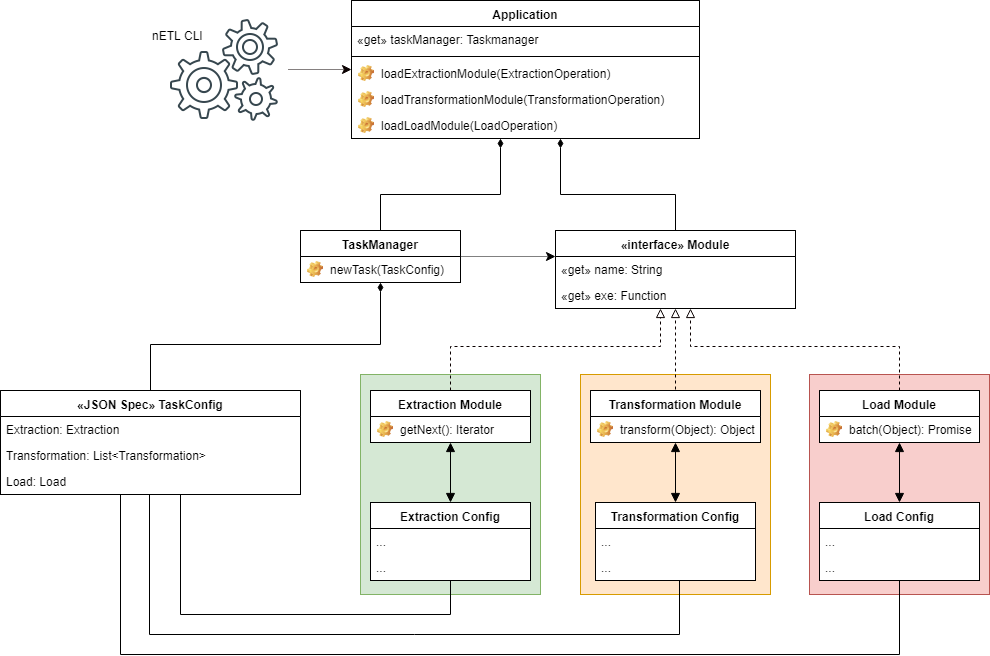
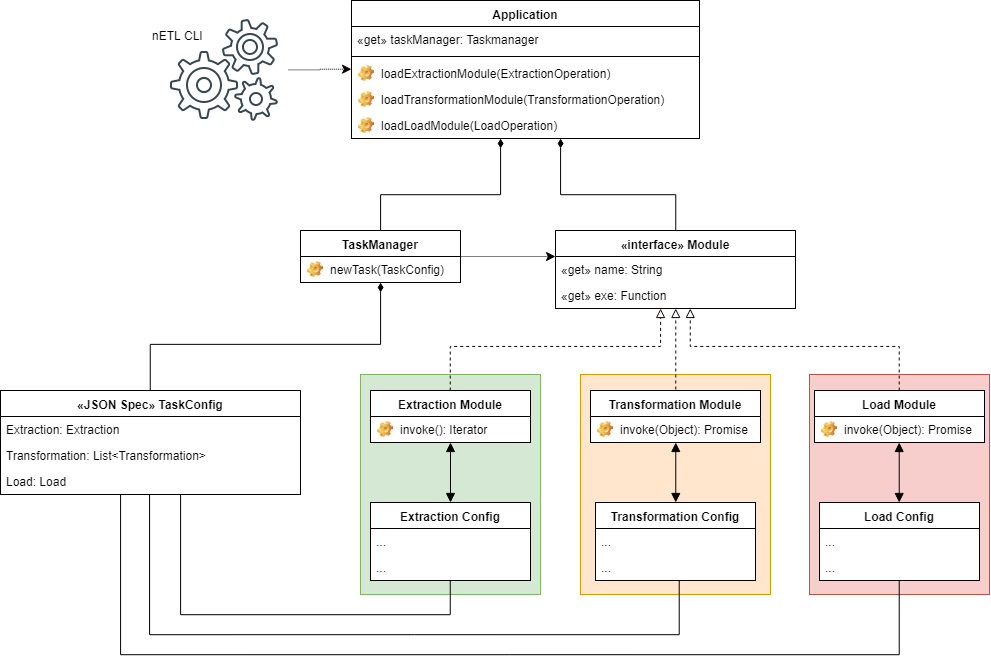
etl chapter first pass done

diff --git a/4-etl/2-implementation.tex b/4-etl/2-implementation.tex
@@ -7,7 +7,7 @@ The ETL engine and components (extractions, transformations, loads) are implemen
     \item The JavaScript implementation of object-orientation is appealing (to some developers at least \cite{jsBook})
 \end{itemize}
 
-All components adhere to the modular contract as shown in \ref{fig-module-contract} such that invoking a module returns a \textit{Promise} \cite{jsPromises} that resolves an \textit{invoke} function. This function accepts a single parameter and returns a \textit{Promise} that resolves the result of the module (which differs depending on whether a module performs extraction, transformation or loading operations). JavaScript \textit{Promise} objects are state-representation of asynchronous operations in terms of success and failure of these operations. Since logic implemented in a module may be synchronous, all logic is wrapped within a \mintinline{text}{setImmediate} function to ensure asynchronous execution of all modules (except for where generators are used, since (\textit{ECMAScript 2017\textsuperscript{®}}) does not support asynchronous generator functions).
+All components adhere to the modular contract as shown in \ref{fig-module-contract} such that invoking a module returns a \textit{Promise} \cite{jsPromises} that resolves an \textit{invoke} function. This function accepts a single parameter and returns a \textit{Promise} that resolves the result of the module (which differs depending on whether a module performs extraction, transformation or loading operations). JavaScript \textit{Promise} objects are state-representation of asynchronous operations in terms of success and failure of these operations. Since logic implemented in a module may not be asynchronous, all logic is wrapped within a \mintinline{text}{setImmediate} function to ensure asynchronous execution of all modules (except for where generators are used, since \textit{ECMAScript 2017\textsuperscript{®}} does not support asynchronous generator functions).
 
 \input{4-etl/figures/fig-module-contract}
 
@@ -26,19 +26,21 @@ For this reason each step in the ETL engine (extraction, transformation and load
 \subsection{Extracting data}
 Files are read in 64KB chunks from beginning to end within the context of an iterator created by a JavaScript \textit{generator} function \cite{mozillaGenerators}. Chunks are held in memory, split into lines (identified by \textit{LF}, \textit{CR} or \textit{CRLF} line ending markers to allow for cross-platform portability) and yielded a single line at a time to a controlling function executed within the context of the iterative ETL engine. This function iteratively collects \mintinline{text}{n} lines at a time into a list (\mintinline{text}{n} is a user configurable property \textit{batchSize}) and yields ``lists of lines'' - (\textit{batches}). Generators are useful in the regard because they automatically create a state handling mechanism for iterating over file contents - i.e. pointers to positions in files, references to incomplete lines as retrieved from files, etc. Disk access via generators is achieved via code taken directly from an open-source library \cite{bower16}.
 
-Lines in batches are then transformed in parallel, with transformations (specified in configuration) applied to each line in the batch in the order specified in the configuration. Once all transformation have been applied to all lines in the batch (lines can also be discarded from the batch depending on the transformations applied), \textit{taskManager} passes the transformed batch to the loading function (also specified via configuration). This function's contract is such that \textit{taskManager} is notified of when the batch has been loaded successfully to the destination, at which a further batch of lines is generated and processed. etc.
+Lines in batches are then transformed concurrently, with transformations (specified in configuration) applied to each line in the batch in the order specified in the configuration. Concurrent processing of items accessed via a loop is achieved by wrapping the loop body in an asynchronous function (\mintinline{text}{setImmediate}), allowing the loop to progress without waiting for loop body execution to complete.
+
+The loop itself is awaited, however, and once all transformation have been applied to all lines in the batch (lines can also be discarded from the batch depending on the transformations applied), the transformed batch is returned to \mintinline{text}{taskManager} and passed as an argument to the loading function specified via configuration. The function's contract is such that \textit{taskManager} is notified when the batch has been loaded successfully to the destination, at which a further batch of lines is generated and processed. This batching loop is repeated until the extraction generator returns false when the end of a data source is reached.
 
 \subsection{Transforming data}
-In terms of processing lines in a flatfile (CSV format), headers are only ever read once with the assumption that the all rows can be split into tuples (by some defined delimiter) and that order of the row-tuples corresponds with the order of the columns - if this is not the case, then the CSV is malformed. Transforming rows into objects of key:value pairs is done by creating a reference to the CSV header row that is maintained for the duration of the transformation (headers are specified explicitly in configuration as strings that are split into tuples during runtime). CSV rows are iteratively loaded into memory and split into tuples. Values from row tuples are matched with values from the header tuples by indices to form key:value pairs and create JavaScript objects with similar data representation to as defined by the JSON RFC \cite{rfc7159} (JavaScript objects can easily be serialized to JSON strings).
+In terms of processing lines in a flatfile (CSV format), headers are only ever read once with the assumption that the all rows can be split into values (by some defined delimiter) and that the order of the values corresponds with the order of the headers - if this is not the case, then the CSV is malformed. A reference to the CSV header row that is maintained for the duration of the transformation. CSV rows are iteratively loaded into memory and split into values. Row values are matched with header values to form key:value pairs and create JavaScript objects
 
-After transforming lines (strings) into lines (objects), additional transformations are applied as a means of controlling what data is loaded into Couch in terms of representation of that data, and what data is included. This is necessary so as to provide a means of identifying CouchDB documents in terms of entity type, reducing the complexity of writing MapReduce indexing functions, and also because reducing CouchDB's footprint allows for performance gains by reducing costs associated with index computation. Since index computation requires that every document in a database be processed, it is helpful (and necessary in the case of large databases) to reduce the number of documents in a database to only the ones that are required. The following transformations are used:
+After transforming row-strings into row-objects, additional transformations are applied to each object. The following transformations are applied to objects:
 
 \begin{itemize}
     \item \textbf{Selection-filter:} Entire objects can be whitelisted based on properties and allowed values for those properties.
     \item \textbf{Join-selection-filter:} A list of attributes and values can be retrieved from a \nth{3} party data source (for example from a CouchDB index), and entire objects can be whitelisted based on the retrieved attributes and allowable values for those attributes. This is similar in concept to a join, although no means of actually joining documents is provided (i.e. creating attributes based on data retrieved from a \nth{3} party data source instead of applying selection - although this would be a fairly easy feature to implement).
     \item \textbf{Projection-filter:} Unneeded attributes can be removed from objects prior to loading into database/other destinations
-    \item \textbf{Projection-append-attributes:} Additional attributes can be added to objects - i.e. a \textit{type\_} attribute can be added, along with a value as specified by configuration
+    \item \textbf{Projection-append-attributes:} Additional attributes can be added to objects - e.g. a \textit{type\_} attribute can be added, along with a value as specified by configuration
 \end{itemize}
 
 \subsection{Loading data}
-Batches of objects are loaded into a CouchDB database via the the HTTP POST \_bulk\_docs endpoint as opposed to separate network requests to CouchDB for each batch-item. Bulk inserts are configured to be atomic - i.e. either an entire insert succeeds or fails. Network requests make use of the well-known, open-source node.js library ``request'' \cite{request-lib}.
+Batches of objects are serialized to JSON and are loaded into a CouchDB database via the the HTTP POST \_bulk\_docs endpoint (as opposed to separate network requests for each item in a batch). Bulk inserts are configured to be atomic - i.e. either an entire insert succeeds or fails. Network requests make use of the well-known, open-source node.js library ``request'' \cite{request-lib}.

diff --git a/4-etl/3-setup.tex b/4-etl/3-setup.tex
@@ -1,11 +1,11 @@
 \section{Setup}
-Running nETL requires an installation of node.js V8.9.0 +, which should include an installation of npm. After cloning the netl repository from Github to a local drive, dependencies should be restored using the npm CLI tool. Additionally, the directory \mintinline{text}{C:\log} needs to be created, and then the nETL app can be started from a terminal. Once the CLI is running, typing anything into the terminal and pressing enter outputs help where further direction can be obtained.
+Running nETL requires an installation of node.js V8.9.0 +, which should include an installation of npm \cite{npm}. After cloning the nETL repository from Github to a local drive, dependencies should be restored using the npm CLI tool. Then the nETL app can be started from a terminal. Once the CLI is running, typing anything into the terminal and pressing enter outputs help where further direction can be obtained.
 
 In conjunction with setting up nETL, a CouchDB server needs to be configured. This is easy to do on Windows machines - simply download the executable from apache.org and use the installer. Once installed the server should be run in single node configuration, binded to the 127.0.0.1 address. This allows access to the CouchDB UI via the browser at the address: \url{http://127.0.0.1:5984/\_utils}, where first an admin user should be created. Working with databases via the CouchDB interface (called Fauxton) is straightforward.
 
-Database creation involves only the single step of specifying a name and (optionally) security roles. CouchDB database configuration should be specified as part of creation - though this is only available when databases creation is specified via the HTTP interface and not the Fauxton GUI (the UI doesn't allow for case-by case configration in this case, but does allow for global configuration changes - although this is not recommended \cite{fauxton}); examples of configurable settings are sharding (q) and replica (n) count. For a single node setup, q=8 and n=1, meaning that a database has 8 shards and only 1 replica of each shard. This is the configuration used in this project. There is no point in storing more than one copy of a single shard on a single server, which is why n=1. For CouchDBs operation in cluster mode the default setup is q=8 and n=3. For clusters with a large number of nodes it might make sense to increase the value of the q parameter.
+Database creation involves only the single step of specifying a name and (optionally) security roles. CouchDB database configuration should be specified as part of creation - though this is only available when databases creation is specified via the HTTP interface and not the Fauxton GUI (the GUI doesn't allow for case-by case configration, but does allow for global configuration changes - although this is not recommended \cite{fauxton}); examples of configurable settings are sharding (q) and replica (n) count. For a single node setup, q=8 and n=1, meaning that a database has 8 shards and only 1 replica of each shard. This is the configuration used in this project. There is no point in storing more than one copy of a single shard on a single server, which is why n=1. For CouchDBs operation in cluster mode the default setup is q=8 and n=3. For clusters with a large number of nodes it might make sense to increase the value of the q parameter.
 
 \subsection{CouchDB Design Documents}
-Design documents are simply JSON strings, in which JavaScript functions are defined as strings. Working directly in JSON is unpleasant, however, and as such a open source tool, ``couchapp'', written in Python is used for configuring and installing Design Documents to CouchDB databases \cite{pythonCouchapp}. This tool maps a directory structure to a JSON document; in other words, directory names become keys, and directory contents is reference by these keys as values in the JSON document. Directories can be nested in the same way that JSON allows nesting objects; nested directories translate to nested keys in the final JSON document.
+Design documents are simply JSON strings, in which JavaScript functions are defined as strings. Working directly in JSON is unpleasant, however, and as such a open source tool, \textit{couchapp}, written in Python is used for authoring and installing Design Documents to CouchDB databases \cite{pythonCouchapp}. This tool maps a directory structure to a JSON document; in other words, directory names become keys, and directory contents become values associated with these keys. Directories can be nested in the same way that JSON allows nesting objects; nested directories translate to nested keys in the final JSON document.
 
-Using this tool, Map and list functions are included as a single JavaScript files within the couchapp directory. Working with JavaScript files for Map and List functions provides the benefit of isolating the code (useful for unit testing) as well as benefits achieved from using an IDE - code completion, syntax highlighting, etc.
+Using this tool, map and list functions can be authored as JavaScript files and don't have to be manually serialized to JSON. Working with map and list functions as JavaScript files allows for code completion, syntax highlighting and numerous other IDE-specific benefits. Isolated function files are also possible to unit test.

diff --git a/1-introduction/introduction.tex b/1-introduction/introduction.tex
@@ -1,6 +1,8 @@
 Insight into the relationships between student grades, online participation, material engagement, demographic information and more allows for data-driven feedback on different approaches to learning and teaching. As such, data mining the plethora of information that learning management software (LMS) such as the University of Cape Town's (UCT) Sakai platform \cite{sakai} collects has the potential to greatly improve the educational experience. Intrinsic to the process of working with these datasets are systems that support data-storage and retrieval. Logical frameworks that guide the design of such systems are becoming ever more important as the amount and rate of data collected increases exponentially.
 
-Concurrently to increasing implementation and usage of data mining, alternatives to traditional relational-orientated databases are becoming preferred software for housing large data stores in many cases. But swapping out relational-storage for newer alternatives involves a mentality shift at many levels within the software stack; this is most noticeably evident in the data-retrieval layer with the shift in mindset from using SQL (structured query language) to query data stores, to other paradigms that are less familiar to most data-professionals (software engineers, software architects, database administrators, etc). Although many new NoSQL databases (databases that don't implement a relational model) implement a version of the SQL standard for querying (which eases the learning curve for new technologies somewhat), many new databases do not. Systems like Oracle, DB2, SQL Server, MySQL and others scale more easily vertically than they do horizontally \cite{couchbaseWhitePaper}. This is is comparatively limiting and expensive compared to NoSQL databases that allow for easy expansion beyond single servers to many, many servers fairly easily.
+Concurrently to increasing implementation and usage of data mining, alternatives to traditional relational-orientated databases are becoming preferred software for housing large data stores in many cases. But swapping out relational-storage for newer alternatives involves a mentality shift at many levels within the software stack; this is most noticeably evident in the data-retrieval layer with the shift in mindset from using SQL (structured query language) to query data stores, to other paradigms that are less familiar to most data-professionals (software engineers, software architects, database administrators, etc). Although many new NoSQL databases (databases that don't implement a relational model) implement a version of the SQL standard for querying (which eases the learning curve for new technologies somewhat), many new databases do not.
+
+Systems like Oracle, DB2, SQL Server, MySQL and others scale more easily vertically than they do horizontally \cite{couchbaseWhitePaper}. This is is comparatively limiting and expensive compared to NoSQL databases that allow for easy expansion beyond single servers to many, many servers fairly easily.
 
 An alternative paradigm to SQL is MapReduce, a logical framework for data querying that allows for efficiently processing dispersed datasets. This technology, already used by several software giants \cite{chandar2010} is being adopted as part of the new technology stack along with the continuing trend of ``information explosion''. As distributed computing power becomes more and more obtainable with the proliferation of cloud providers such as Digital Ocean, Hetzner, Amazon, Google, etc., it is worth investigating how technologies that make use of dispersed processing via the MapReduce paradigm can do relational operations like joins, selections and aggregations.
 

diff --git a/2-background/2-couchdb.tex b/2-background/2-couchdb.tex
@@ -1,5 +1,5 @@
 \section{CouchDB}
-In CouchDB, data is modeled conceptually as \textit{documents}, which users interact with as serialized JSON strings. There are no limitations/specifications/etc. on how documents may be structured (other than that they can be represented by valid JSON). The comprise \textit{key:value} pairs, in which the value may be objects themselves.
+In CouchDB, data is modeled conceptually as \textit{documents}, which users interact with as serialized JSON strings \cite{rfc7159}. There are no limitations/specifications/etc. on how documents may be structured (other than that they can be represented by valid JSON). The comprise \textit{key:value} pairs, in which the value may be objects themselves.
 
 The CouchDB data model (like many NoSQL data models) is considered to be \textit{unstructured}, or \textit{semi-structured}, compared to RDBMSs where data models are rigidly formalized in terms of relations. But despite different storage models, conceptual requirements of data-persistence - such as well known ACID properties are applicable to all database systems. ACID properties provide certain guarantees required within a system to reliably persist information:
 
@@ -46,4 +46,4 @@ To think of entities as rows of a relational table, each entity represented via 
 
 Entity modeling in CouchDB is quite flexible. RDBMSs allow for categorizing information in terms of relations, fields, constraints, and other objects, and MongoDB documents are identifiable in terms of \textit{collections}. CouchDB does not provide a built-in means of classifying documents except by scanning an entire database and reading each document.
 
-Entity classification can be enforced by including a field \textit{type}, that allows for entity modeling separately to the data-storage engine. With this approach documents are only classifiable on retrieval and deserialization (which is inefficient). Alternatively, entity classification can be included in the id field of CouchDB documents, which has the benefit of allowing indexed entity retrieval.
+Entity classification can be enforced by including a field \textit{type}, that allows for entity modeling separately to the data-storage engine. With this approach documents are only classifiable on retrieval and deserialization. Alternatively, entity classification can be included in the id field of CouchDB documents, which has the benefit of allowing indexed entity retrieval.

diff --git a/2-background/4-edm.tex b/2-background/4-edm.tex
@@ -1,4 +1,2 @@
 \section{Educational Data Mining}
-Falling under the umbrella category of \textit{Educational Data Mining} (EDM), much work has been done with the intent of modeling student performance as dependent on certain markers such as attendance, assignment and test grades, high school marks, demographic data, etc. Different means of model generation have been discussed by the EDM community such as predictive analysis via decision tree generation \cite{Qasem20016,Balestra2017,casper2017,Dimitris,zebun2005,Mierle:2005} with varying results. Many other models have been applied within the field of EDM as discussed in a review of EDM up to 2009 \cite{bakerEdMiningSummary}.
-
-Although these studies discuss analysis-frameworks at length, very little work has been done on the underlying data stores that form a basis of such analysis. As such, it appears that the work done so far looks to research feasible models in terms of accuracy and implementation rather than feasible means of implementing such mining techniques. Where \textit{Extraction, Transformation, and Loading} (ETL) processes have been discussed with regards to data preparation, SQL is used but without much discussion as to the implementation of the underlying relational data stores (\cite{Balestra2017,casper2017,Mierle:2005}). No attempts have been made to use newer and less conventional NoSQL stores such as CouchDB despite that benefit that such data stores provide in terms of the unique features that these newer data stores offer (\textit{schema-less} entites, easier scaling, lower costs of implementation and licensing, etc.).
+The focus of this project is data manipulation using CouchDB and associated technologies using data from the business domain of \textit{Educational Data Mining} (EDM). This field is well developed and much work has been done with the intent of modeling student performance as dependent on certain markers such as attendance, assignment and test grades, high school marks, demographic data, etc. Different means of model generation have been discussed by the EDM community such as predictive analysis via decision tree generation \cite{Qasem20016,Balestra2017,casper2017,Dimitris,zebun2005,Mierle:2005} with varying results. Many other models have been applied within the field of EDM as discussed in a review of EDM up to 2009 \cite{bakerEdMiningSummary}.

diff --git a/3-data/tables/tbl-data-events.tex b/3-data/tables/tbl-data-events.tex
@@ -7,17 +7,16 @@
             \toprule
             \mC{c}{Field Name} & \mC{c}{Data type} & \mC{c}{Description}                                             \\
             \midrule
-            event\_date        & date              & yyyy-mm-dd hh:mm:ss                                             \\
-            event\_id          & number            & Number\tnote{\textsuperscript{1}}                               \\
+            event\_date        & datetime          & When event occurred                                             \\
+            event\_id          & number            & Type of event (eg. login)                                       \\
             uct\_id            & number            & Anonymized student number                                       \\
-            site\_key          & number            & Foreign key reference to course site\tnote{\textsuperscript{2}} \\
+            site\_key          & number            & Foreign key reference to course site\tnote{\textsuperscript{1}} \\
             ref                & string            & Detail of event                                                 \\
             \bottomrule
         \end{tabularx}
         \scriptsize
         \begin{tablenotes}
-            \item[\textsuperscript{1}]This column represents a foreign key, allowing for a more general classification of events
-            \item[\textsuperscript{2}]This key references Sakai-specific fields and not grades data recieved reparately
+            \item[\textsuperscript{1}]This key references Sakai-specific fields and not grades data recieved reparately
         \end{tablenotes}
     \end{threeparttable}
 \end{table}

diff --git a/4-etl/0-overview.tex b/4-etl/0-overview.tex
@@ -4,4 +4,4 @@ Within the context of RDBMSs, there are a large variety of tools available to as
 
 The resultant ETL tool is called \textit{node.js ETL} (nETL) and is designed in terms of \textit{Tasks} that are configured as a pipeline of components. These tasks comprise sequential piping of output from one component to input of another component. Components, by adhering to specified input/output signatures can be strung together in any order allowing for versatile and configurable ETL pipelines.
 
-nETL's core design philosophy is a decoupling of the logic required to manage tasks - i.e. initiating components - from the logic of the components themselves. Because the logic of running ETL tasks is separate from the more specific logic of how extractions, transformations and loading logic is applied to a data source, component logic can be stipulated during runtime of the nETL application and can be defined separately to the main code base. In other words nETL is authored as a framework in which ETL logic can be run.
+nETL's core design philosophy is a decoupling of the logic required to manage tasks from the logic of the tasks themselves. Because the logic of running ETL tasks is separate from the more specific logic of how extractions, transformations and loading logic is applied to a data source, components that perform extractions, transformations and loading are defined separately to the main code base and can be loaded into nETL during runtime. In other words nETL is authored as a framework in which custom ETL logic is performed.

diff --git a/4-etl/1-design.tex b/4-etl/1-design.tex
@@ -3,7 +3,7 @@ Conceptualizing a single ETL process as an entity of type \textit{Task}, that is
 
 Starting the long-running nETL process comprises instantiating the \mintinline{text}{taskManager} singleton. This object provides a CLI (command line interface) to facilitate user interactions. Via the CLI, users can interact with \mintinline{text}{taskManager} to register different ETL components, start/stop tasks, configure application options such as log output path, etc.
 
-The relationship between the \mintinline{text}{taskManager} singleton, \mintinline{text}{task} instances, and components is shown in Figure \ref{fig-nETL}. ETL components comprise modules that adhere to the Module interface and that accept a TaskConfig object as a paramater on instantiation. As such modules are paired with configuration objects as shown in the coloured blocks. An ETL task comprises the following steps:
+The relationship between the \mintinline{text}{taskManager} singleton, \mintinline{text}{task} instances, and components is shown in Figure \ref{fig-nETL}. ETL components comprise modules that adhere to the Module interface and that accept a TaskConfig object as a paramater on instantiation. As such, modules are paired with configuration objects as shown in the coloured blocks. An ETL task comprises the following steps:
 
 \begin{itemize}
     \item Loading all component modules required for a specific task into the nETL runtime
